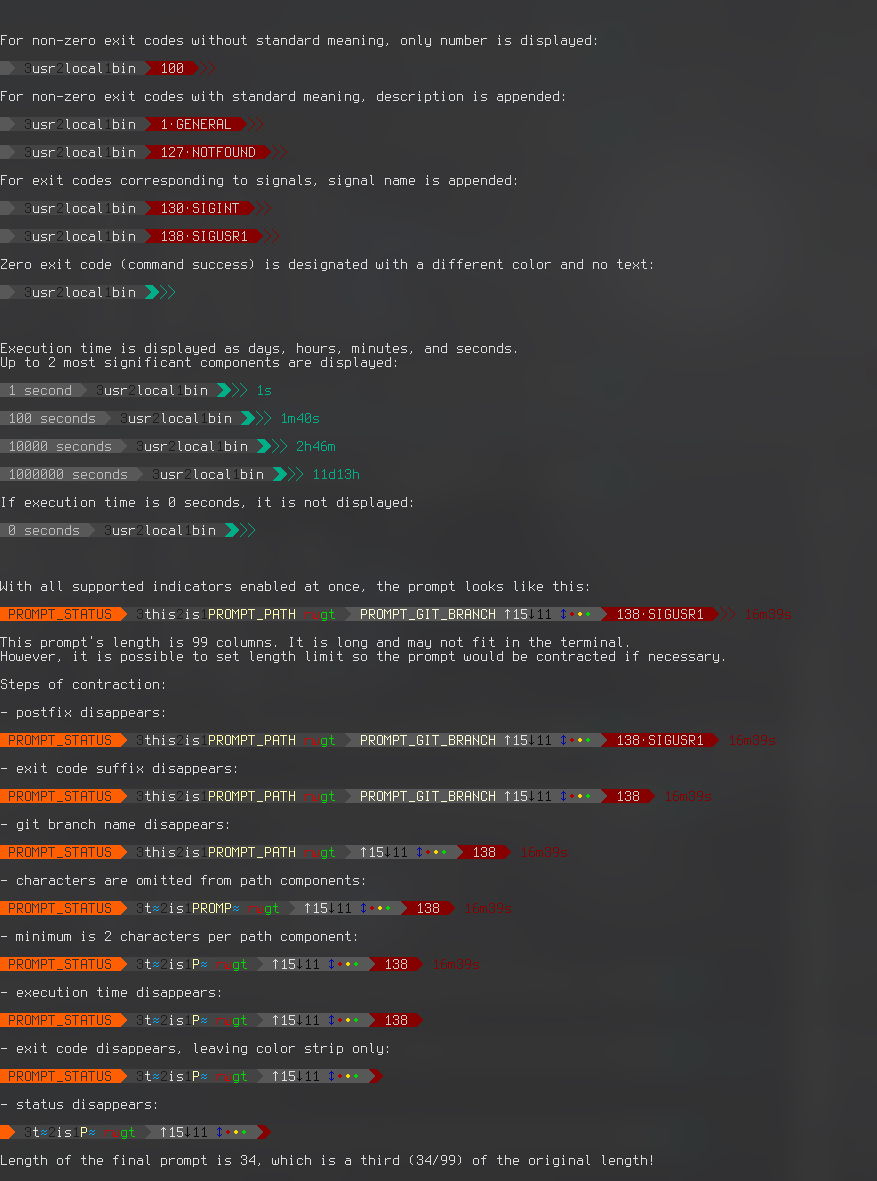
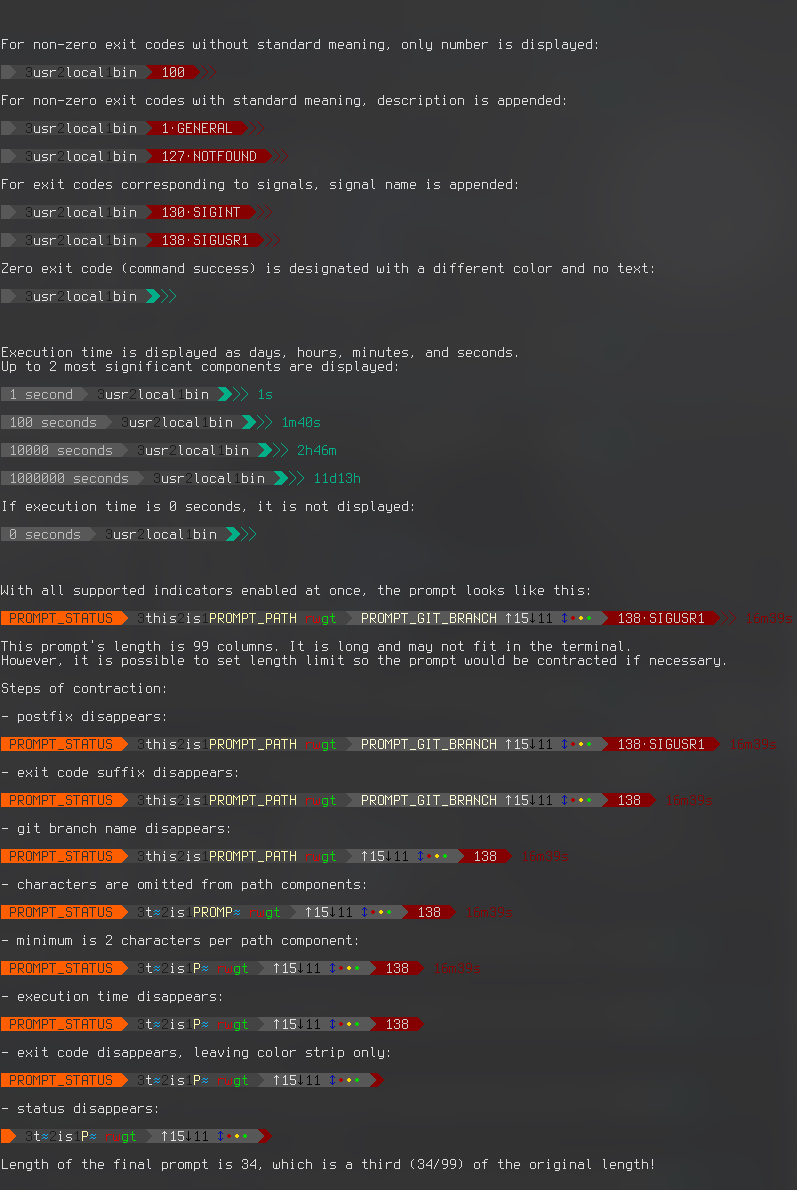
feat(prompt.py): show exit code indicator always

diff --git a/prompt.py b/prompt.py
@@ -67,13 +67,13 @@ DEFAULT_COLOR_EXIT_CODE_SUCCESS_BG = 36  # style['col_exit_code_success_bg']
 DEFAULT_COLOR_EXIT_CODE_FAIL_FG = 252 # style['col_exit_code_fail_fg']
 DEFAULT_COLOR_EXIT_CODE_FAIL_BG = 88  # style['col_exit_code_fail_bg']
 
+DEFAULT_COLOR_EXIT_CODE_DEFAULT_BG = 244 # style['col_exit_code_default_bg']
+
 ###############
 ### postfix ###
 ###############
 
 DEFAULT_STRING_POSTFIX = "" if os.environ['TERM'] != 'linux' else "" # style['str_postfix']
-
-DEFAULT_COLOR_POSTFIX_FG = 244 # style['col_postfix_fg']
 
 ###############
 
@@ -285,19 +285,19 @@ class Prompt:
         COLOR_GIT_STAGED_FG = self._style.get('col_git_staged_fg', DEFAULT_COLOR_GIT_STAGED_FG)
         COLOR_GIT_BG = self._style.get('col_git_bg', DEFAULT_COLOR_GIT_BG)
 
-        if self._exit_success:
-            COLOR_EXIT_CODE_FG = self._style.get('col_exit_code_success_fg', DEFAULT_COLOR_EXIT_CODE_SUCCESS_FG)
-            COLOR_EXIT_CODE_BG = self._style.get('col_exit_code_success_bg', DEFAULT_COLOR_EXIT_CODE_SUCCESS_BG)
+        if self._exit_code is not None:
+            if self._exit_success:
+                COLOR_EXIT_CODE_FG = self._style.get('col_exit_code_success_fg', DEFAULT_COLOR_EXIT_CODE_SUCCESS_FG)
+                COLOR_EXIT_CODE_BG = self._style.get('col_exit_code_success_bg', DEFAULT_COLOR_EXIT_CODE_SUCCESS_BG)
+            else:
+                COLOR_EXIT_CODE_FG = self._style.get('col_exit_code_fail_fg', DEFAULT_COLOR_EXIT_CODE_FAIL_FG)
+                COLOR_EXIT_CODE_BG = self._style.get('col_exit_code_fail_bg', DEFAULT_COLOR_EXIT_CODE_FAIL_BG)
+
         else:
-            COLOR_EXIT_CODE_FG = self._style.get('col_exit_code_fail_fg', DEFAULT_COLOR_EXIT_CODE_FAIL_FG)
-            COLOR_EXIT_CODE_BG = self._style.get('col_exit_code_fail_bg', DEFAULT_COLOR_EXIT_CODE_FAIL_BG)
+            COLOR_EXIT_CODE_BG = self._style.get('col_exit_code_default_bg', DEFAULT_COLOR_EXIT_CODE_DEFAULT_BG)
 
         POSTFIX = self._style.get('str_postfix', DEFAULT_STRING_POSTFIX)
-
-        if self._exit_code is not None:
-            POSTFIX_FG = COLOR_EXIT_CODE_BG
-        else:
-            POSTFIX_FG = self._style.get('col_postfix_fg', DEFAULT_COLOR_POSTFIX_FG)
+        POSTFIX_FG = COLOR_EXIT_CODE_BG
 
         ################################
         # calculate full prompt length #
@@ -357,15 +357,15 @@ class Prompt:
         length_exit_code_block = 0
         length_exit_code = 0
         length_exit_code_suffix = 0
-        if self._exit_code is not None:
-            length_exit_code_block += 1 # triangle
 
-            if self._exit_code:
-                length_exit_code += 1 + len(self._exit_code) + 1 # space, exit code, space
-                length_exit_code_suffix += len(self._exit_code_suffix)
+        length_exit_code_block += 1 # triangle
 
-            length_exit_code_block += length_exit_code + length_exit_code_suffix
-            length += length_exit_code_block
+        if self._exit_code:
+            length_exit_code += 1 + len(self._exit_code) + 1 # space, exit code, space
+            length_exit_code_suffix += len(self._exit_code_suffix)
+
+        length_exit_code_block += length_exit_code + length_exit_code_suffix
+        length += length_exit_code_block
 
         length += 1 + len(POSTFIX) # triangle, postfix
 
@@ -521,12 +521,11 @@ class Prompt:
                     self._str += color1(COLOR_GIT_STAGED_FG) + CHAR_GIT_STAGED
                 self._str += " "
 
-        if exit_code is not None:
-            self._str += color2(fg=prev_bg, bg=COLOR_EXIT_CODE_BG) + TRIANGLE
-            prev_bg = COLOR_EXIT_CODE_BG
+        self._str += color2(fg=prev_bg, bg=COLOR_EXIT_CODE_BG) + TRIANGLE
+        prev_bg = COLOR_EXIT_CODE_BG
 
-            if exit_code:
-                self._str += color1(COLOR_EXIT_CODE_FG) + " " + exit_code + exit_code_suffix + " "
+        if exit_code:
+            self._str += color1(COLOR_EXIT_CODE_FG) + " " + exit_code + exit_code_suffix + " "
 
         self._str += color2(fg=prev_bg, transparent_bg=True) + TRIANGLE
         if POSTFIX:
